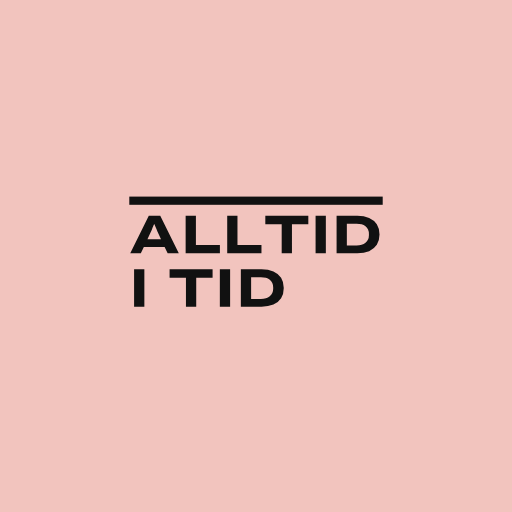
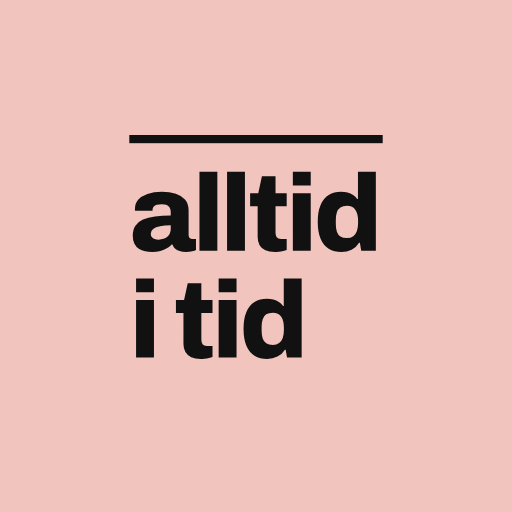
Ordmärket i gemener: alltid i tid i Archivo 800 under strecket, även i ikon och delningsbild
Claude-Session: https://claude.ai/code/session_017wKKtGAj8W8VfZn9mjNi5T

Changed region(s): [[0.25, 0.3125, 0.75, 0.7188], [0.25, 0.25, 0.75, 0.2812]]

diff --git a/components/Header.tsx b/components/Header.tsx
@@ -56,7 +56,7 @@ export default function Header({ onContactClick, onHome, linkBase = '' }: Props)
           maxWidth: '100%',
         }}
       >
-        {/* Ordmärket: ALLTID I TID i bred versal under strecket (över hela skärmen, se .site-header), sloganen under. */}
+        {/* Ordmärket: alltid i tid i gemener, Archivo 800, under strecket (över hela skärmen, se .site-header), sloganen under. */}
         <span
           className="wordmark"
           style={{ display: 'flex', flexDirection: 'column', minWidth: 0 }}
@@ -64,11 +64,9 @@ export default function Header({ onContactClick, onHome, linkBase = '' }: Props)
           <span
             style={{
               fontFamily: fonts.display,
-              fontStretch: 'var(--stretch-wide)',
-              fontSize: '1.125rem',
-              fontWeight: 700,
-              letterSpacing: '0.02em',
-              textTransform: 'uppercase',
+              fontSize: '1.375rem',
+              fontWeight: 800,
+              letterSpacing: '-0.035em',
               lineHeight: 1,
               color: colors.text,
             }}
